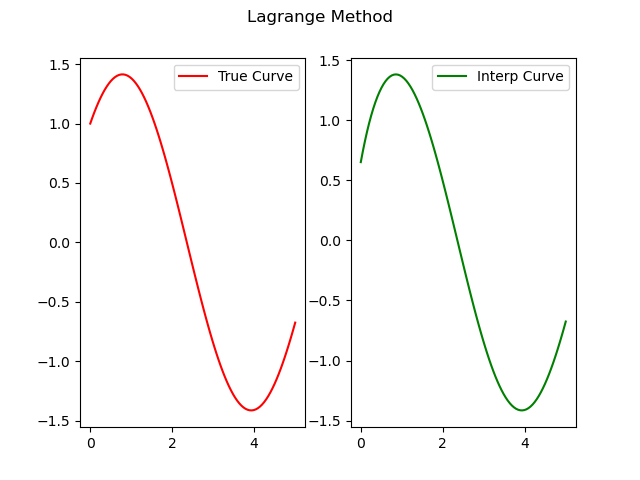
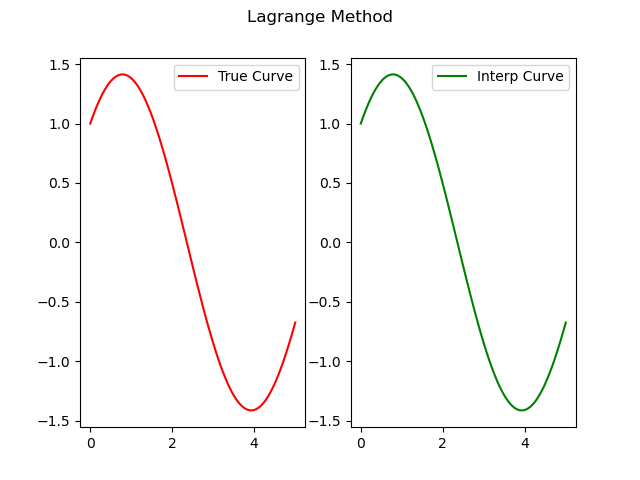
完成最佳平方逼近

diff --git a/approx/best_square.py b/approx/best_square.py
@@ -1,0 +1,43 @@
+import numpy as np 
+from . import inner_product
+
+class BestSquare:
+    def __init__(self, k: int, std_fn, a: int, b: int):
+        self.k = k
+        self.std_fn = std_fn
+        self.left = []
+        self.right = []
+        self.a = a
+        self.b = b
+
+    def _make_matrix(self):
+        # 建造矩阵
+        for i in range(0, self.k + 1):
+            row = []
+            for j in range(0, self.k + 1):
+                f1 = np.poly1d([1 for _ in range(0, i + 1)])
+                f2 = np.poly1d([1 for _ in range(0, j + 1)])
+                (res, _) = inner_product(f1, f2, self.a, self.b)
+                # print("row res: {}".format(res))
+                row.append(res)
+            f1 = self.std_fn
+            f2 = np.poly1d([1 for _ in range(0, i + 1)])
+            (res, _) = inner_product(f1, f2, self.a, self.b)
+            # print("col res: {}".format(res))
+            self.right.append(res)
+            self.left.append(row)
+        print("left: {}, right: {}".format(self.left, self.right))
+
+
+
+    def fit(self):
+        # 函数拟合，实际上就是根据次数解矩阵，最后把系数求出来
+        self._make_matrix()
+        res = list(reversed(np.linalg.solve(self.left, self.right)))
+        f = np.poly1d(res)
+        print("f: {}".format(f))
+        self.f = f
+
+    def cal(self, x: int):
+        res = self.f(x)
+        return res

diff --git a/example.py b/example.py
@@ -1,3 +1,4 @@
+from approx.best_square import BestSquare
 import point
 import interp
 from draw import Drawer
@@ -6,6 +7,7 @@ from interp.lagrange import Largrange
 from interp.newton import Netwon
 from interp.piece_linear import PieceLinear
 from interp.vandermonde import Vandermonde
+import numpy as np
 
 def test_vandermonde():
     print("范德蒙德插值法")
@@ -105,13 +107,32 @@ def test_hermite():
     drawer.draw_interp(a, b, c, d, e, f, hermite.vector_cal, 'Cubic Hermite Method')
 
 
+def test_best_square():
+    c = 1
+    std_fn = 1.0 / np.poly1d([c, 1 << 63, 1])
+    # print("std_fn: {}".format(std_fn))
+    # print("std_fn(2): {}".format(std_fn(2)))
+    k = 3
+    a = 1
+    b = 5
+    best_square = BestSquare(k, std_fn, a, b)
+    best_square.fit()
+    samples = point.random_x(a, b, 10)
+    for sample in samples:
+        std_val = std_fn(sample)
+        app_val = best_square.cal(sample)
+        err = abs(std_val - app_val)
+        print("标准函数计算的结果为：{}, 逼近函数计算的结果为: {}, 误差为: {}".format(std_val, app_val, err))
+
+
 
 def example():
-    test_vandermonde()
-    test_lagrange()
-    test_newton()
-    test_piecelinear()
-    test_hermite()
+    # test_vandermonde()
+    # test_lagrange()
+    # test_newton()
+    # test_piecelinear()
+    # test_hermite()
+    test_best_square()
 
 if __name__ == '__main__':
     example()

diff --git a/point.py b/point.py
@@ -26,7 +26,7 @@ def point_derivative(x: float, c: float, d: float, e: float, f: float):
     return y
 
 
-# 根据给定区间以及点数对点进行采样
+# 根据给定区间以及点数对点进行采样(插值法)
 def random_sample(n: int, a: float, b: float, c: float, d: float, e: float, f: float):
     points = []
     for _ in range(n):
@@ -35,7 +35,7 @@ def random_sample(n: int, a: float, b: float, c: float, d: float, e: float, f: f
         points.append(Point(x, y))
     return points
 
-# 根据给定区间以及点数，计算固定步长进行采样
+# 根据给定区间以及点数，计算固定步长进行采样(插值法)
 def fixed_sample(n: int, a: float, b: float, c: float, d: float, e: float, f: float):
     points = []
     step = (b - a) / n 
@@ -47,3 +47,10 @@ def fixed_sample(n: int, a: float, b: float, c: float, d: float, e: float, f: fl
     y = c * math.sin(d * x) + e * math.cos(f * x)
     points.append(Point(x, y))
     return points
+
+def random_x(a: int, b: int, n: int):
+    x_axis = []
+    for _ in range(0, n):
+        x = random.random() * (b - a) + a 
+        x_axis.append(x)
+    return x_axis

diff --git a/approx/__init__.py b/approx/__init__.py
@@ -1,0 +1,10 @@
+from scipy import integrate
+
+# 函数定积分
+def integral(fn, a: int, b: int):
+    return integrate.quad(fn, a, b)
+
+# 求两函数内积
+def inner_product(f1, f2, a: int, b: int):
+    fn = f1 * f2 
+    return integral(fn, a, b)
